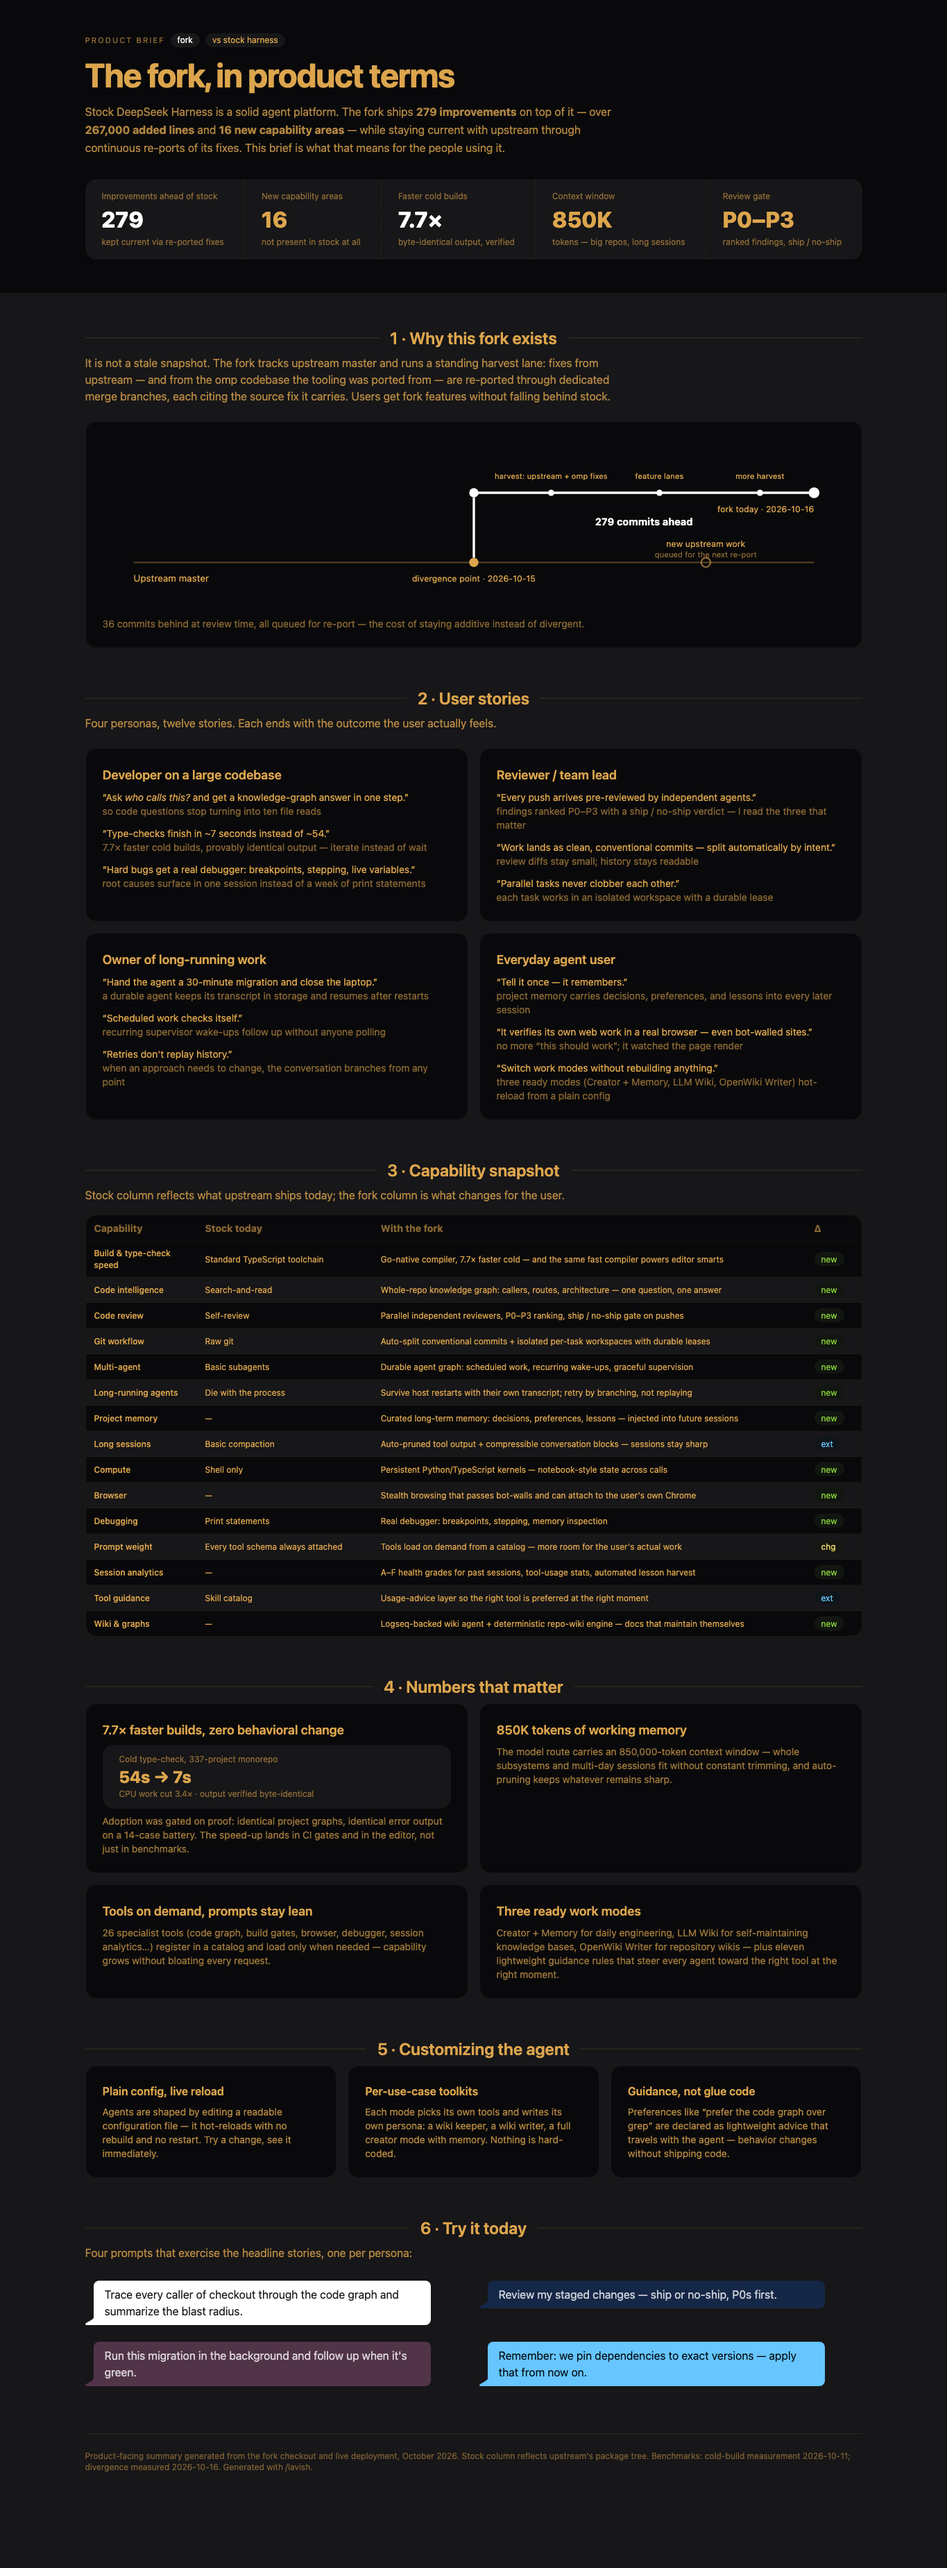
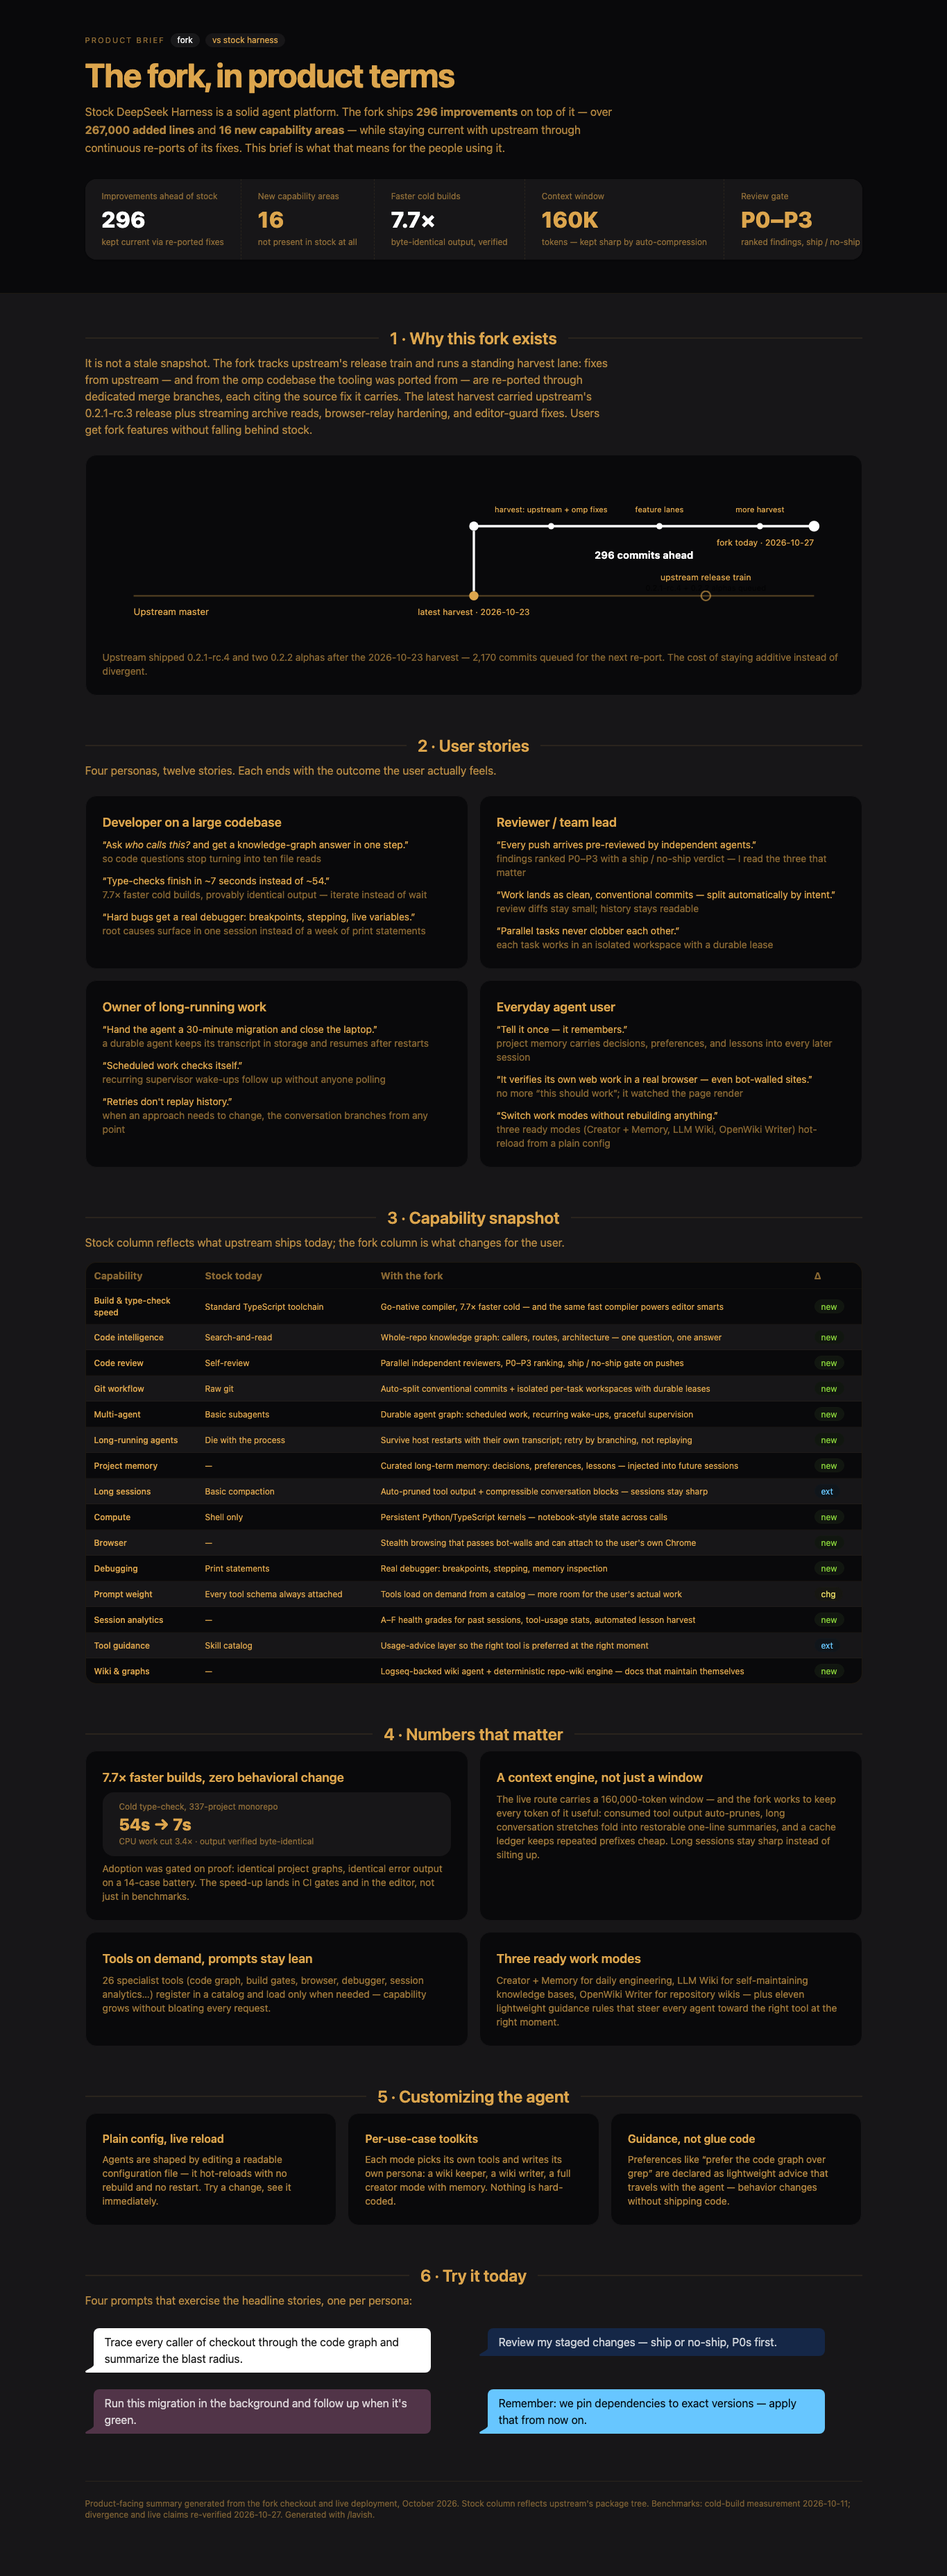
docs(readme): refresh fork-brief.png and sync commit count
- Re-shoot .github/assets/fork-brief.png from the refreshed brief (1365x3711): 296 commits ahead, 160K-context framing, harvest timeline re-anchored to the 2026-10-23 merge of upstream dsh-v0.2.1-rc.3.
- Sync the prose count 279->296 in README.md and README.zh.md so the text matches the embedded graphic.

diff --git a/README.md b/README.md
@@ -6,7 +6,7 @@ DeepSeek Harness (`dsh`) is an open-source agent harness developed by [DeepSeek 
 
 It is built on an **everything-is-a-plugin** architecture and powered by [Cordis](https://github.com/cordiverse/cordis), whose design is described in [_A Programming Paradigm for Spatiotemporal Composability_](https://arxiv.org/abs/2608.25512).
 
-This fork (`hy-sde/deepseek-harness`) tracks upstream [deepseek-ai/deepseek-harness](https://github.com/deepseek-ai/deepseek-harness) and ships **279 commits of additional capability** on top of it — **16 fork-only package trees**, over **267,000 added lines** — while staying current through continuous re-ports of upstream fixes.
+This fork (`hy-sde/deepseek-harness`) tracks upstream [deepseek-ai/deepseek-harness](https://github.com/deepseek-ai/deepseek-harness) and ships **296 commits of additional capability** on top of it — **16 fork-only package trees**, over **267,000 added lines** — while staying current through continuous re-ports of upstream fixes.
 
 ![The fork in product terms — capabilities and customization over upstream stock](.github/assets/fork-brief.png)
 
